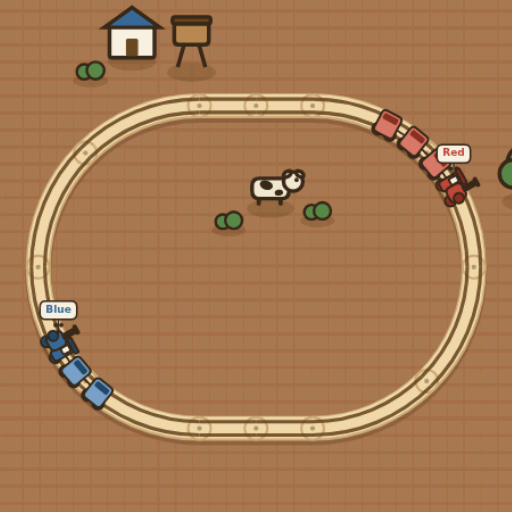
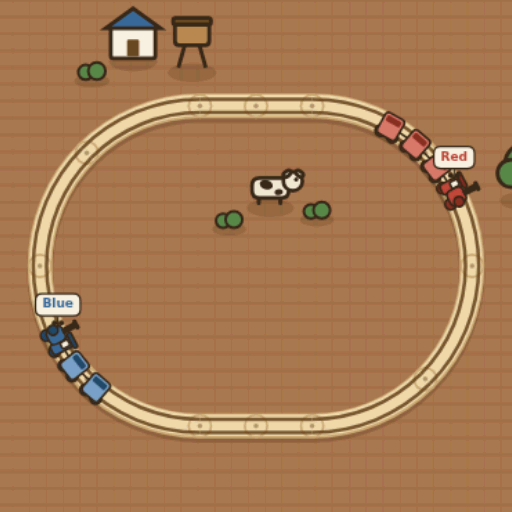
Whistlestop: Swap's two termini swing out, and the shot said why
The card was shot at 375x667 and opened, and Swap was a thread: the spine
measured 3.3 U wide by 15 tall and the whole railway was about a hundred pixels
across a 375 wide screen with a hand of empty wool either side of it. Two curves
at each end turn the line through ninety degrees in opposite directions; the
footprint is 7.7 by 18.7, which is 2.43 to one and inside the rule DECISIONS
already carried, and the two stations now sit in opposite corners of the rug
rather than one above the other on a line.

Par is unchanged at 2 and so are the levers and the two flips; the run is
longer, 9.53 s rather than 4.97. Stations are pieces 18 and 21, both trains
start at the far end of their terminus heading back down it.

The unsolvable variant that watches the solve gate is better too. Deleting the
loop's two curves shifted every index and crashed makePuzzle, which proves
nothing; the mutation now REPLACES them with two straights, so the piece count
and every index are identical and only the loop's shape is gone. Swap then
reads never 0 NO WIN CRASHED HAD TO STOP NOT THREE STARS and --solve exits 1.

tools/shots.mjs takes p2-swap and p2-swappass at both sizes, which is how the
thread was found.

ALL GATES PASSED, twelve of twelve, 16:13 UTC, first run, nothing rerun alone.

Claude-Session: https://claude.ai/code/session_01CohA1CK6e5eCWUdrKWPpuM

diff --git a/satellites/whistlestop/index.html b/satellites/whistlestop/index.html
@@ -1300,16 +1300,32 @@ var PUZZLES = [
       ["p", "curveL"],
       ["p", "curveL"],
       ["from", 11, 2],
-      ["p", "curveL"]
+      ["p", "curveL"],
+      /* ⛔ the two termini swing OUT, in opposite directions, and they are the
+         difference between a puzzle and a thread. The spine alone measured
+         3.3 U wide by 15 tall, and on a 375 wide phone that is a railway a
+         hundred pixels across with a hand of empty wool either side of it.
+         Two curves at each end turn the line through ninety degrees and the
+         footprint becomes 7.7 by 18.7, which is 2.43 to one and inside the
+         rule in DECISIONS. It also reads as a railway: a straight run with a
+         station swung out at each end of it. */
+      ["from", 0, 0],
+      ["p", "curveR"],
+      ["p", "curveR"],
+      ["p", "straight"],
+      ["from", 12, 1],
+      ["p", "curveR"],
+      ["p", "curveR"],
+      ["p", "straight"]
     ],
     stations: [
-      { piece: 0, end: 0, colour: "blue", name: "Blue" },
-      { piece: 12, end: 1, colour: "red", name: "Red" }
+      { piece: 18, end: 1, colour: "blue", name: "Blue" },
+      { piece: 21, end: 1, colour: "red", name: "Red" }
     ],
     levers: { 2: 0, 9: 0, 11: 1 },
     trains: [
-      { colour: "red", piece: 0, edge: 0, s: 0, dir: 1, cars: 3 },
-      { colour: "blue", piece: 12, edge: 0, s: 1, dir: -1, cars: 3 }
+      { colour: "red", piece: 18, edge: 0, s: 1, dir: -1, cars: 3 },
+      { colour: "blue", piece: 21, edge: 0, s: 1, dir: -1, cars: 3 }
     ],
     solution: [
       { atS: 0.10, piece: 2, to: 1 },

diff --git a/satellites/whistlestop/docs/DECISIONS.md b/satellites/whistlestop/docs/DECISIONS.md
@@ -114,3 +114,12 @@ getting past each other is not the whole job. A fourth switch with its own
 spur above the loop was built, measured and thrown away: no solution needed it,
 and a switch the answer never touches is scenery with a lever on it. Leave
 every lever alone and the two trains meet nose to nose on the single line.
+
+**Swap's two termini swing out, and that is what stops it being a thread.**
+The spine (two switches, a passing loop, a third switch, two buffers) measured
+3.3 U wide by 15 tall, and on a 375 wide phone that is a railway a hundred
+pixels across with a hand of empty wool either side of it. Two curves at each
+end turn the line through ninety degrees in opposite directions and the
+footprint becomes 7.7 by 18.7, which is 2.43 to one and inside the rule three
+entries above. It also reads as a railway rather than a diagram: a straight run
+with a station swung out at each end of it, in opposite corners of the rug.
